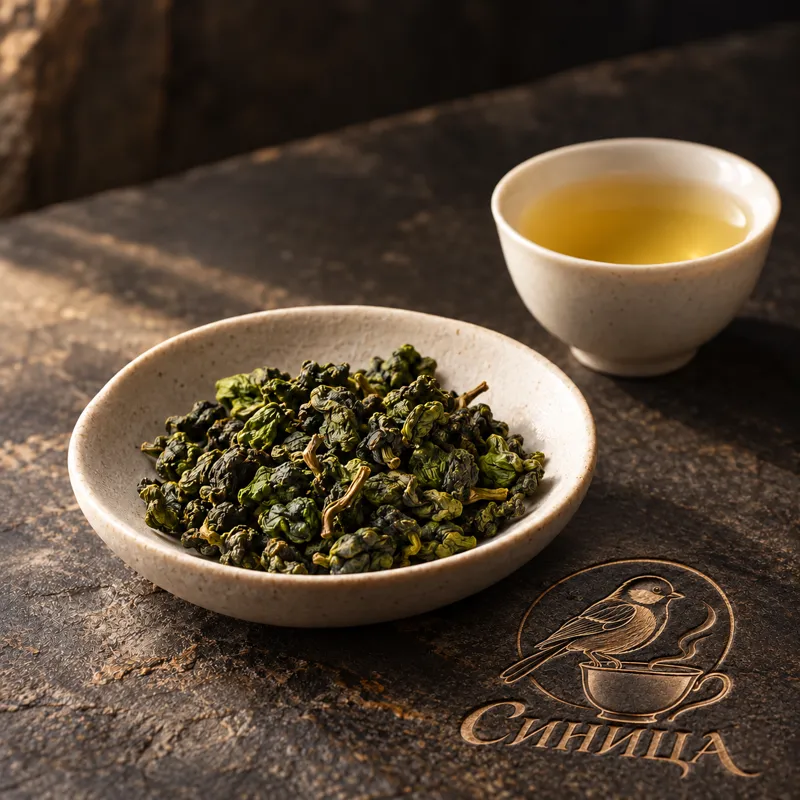
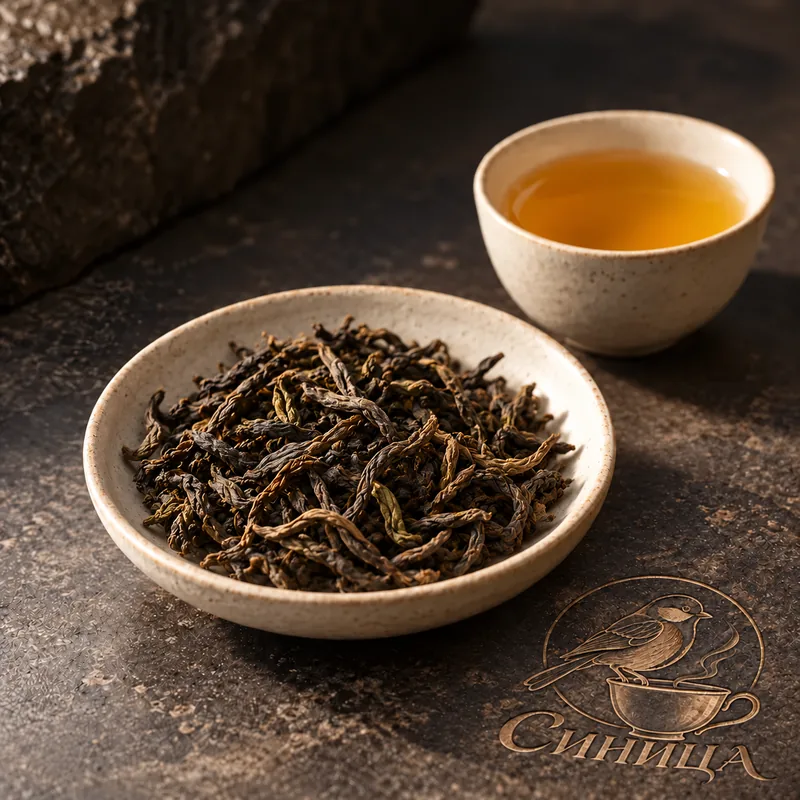
Новые фото: утёсный улун, даньцун, молодой шэн, гусеничный чай (и в карусели)
Claude-Session: https://claude.ai/code/session_01Nh1y51B4GqjmRUsRs6bDej

diff --git a/public/app.js b/public/app.js
@@ -198,7 +198,7 @@ function addSet(key) {
 function promoSlides() {
   const out = [];
   const t = S.teas.filter((x) => x.unusual && x.available).sort((a, b) => a.prices["20"] - b.prices["20"])[0];
-  if (t) out.push({ cls: "cat", attr: `data-tea="${t.id}"`, img: `<img src="/promo/caterpillar.svg" alt="Гусеница на чайном листе и горка тёмных гранул чая" width="800" height="500">`,
+  if (t) out.push({ cls: "cat", attr: `data-tea="${t.id}"`, img: `<img src="/teas/35.webp" alt="Гусеничный чай чунши: крошечные тёмные гранулы и тёмный настой" width="800" height="800">`,
     eye: "🐛 Самый необычный чай", title: "Чай, который сделали гусеницы",
     text: "Гусеницы едят чайный лист, а из их гранул получается густой сладкий настой. Звучит странно — вкус удивляет.", cta: `Попробовать — от ${rub(t.prices["20"])}` });
   if (S.sets.length) {
